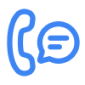
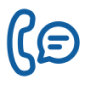
updated the primary color

Changed region(s): [[0.0706, 0.0941, 0.9412, 0.8941], [0.5647, 0.4, 0.8235, 0.4941], [0.5647, 0.5176, 0.7294, 0.5882]]

diff --git a/components/home/MiddleMenu.js b/components/home/MiddleMenu.js
@@ -8,7 +8,7 @@ export default function MiddleMenu() {
     <MiddleWrapper>
       <Link href={paths.leadership}>
         <a>
-          <Image src='/img/leadership-icon.webp' width={50} height={50} />
+          <Image src='/img/leadership-icon.png' width={50} height={50} />
           <p>
             With a warm smile, the leaders of Rhema Christian Ministries are
             taskes with operational and ecclesiatial exellence.
@@ -18,7 +18,7 @@ export default function MiddleMenu() {
       </Link>
       <Link href={paths.beliefs}>
         <a>
-          <Image src='/img/beliefs-icon.webp' width={50} height={50} />
+          <Image src='/img/beliefs-icon.png' width={50} height={50} />
           <p>
             At Rhema what we believe is important to us but not as much as the
             one in whom we believe.
@@ -28,14 +28,14 @@ export default function MiddleMenu() {
       </Link>
       <Link href={paths.ministries}>
         <a>
-          <Image src='/img/ministries-icon.webp' width={57.5} height={50} />
+          <Image src='/img/ministries-icon.png' width={57.5} height={50} />
           <p>From our family to yours.</p>
           <h4>Ministries</h4>
         </a>
       </Link>
       <Link href={paths.grow}>
         <a>
-          <Image src='/img/grow-icon.webp' width={50} height={50} />
+          <Image src='/img/grow-icon.png' width={50} height={50} />
           <p>
             We invite you to hear the voice of the Master calling you, even as
             “Deep calleth unto deep” (Psalm 42:7)

diff --git a/styles/_variables.css b/styles/_variables.css
@@ -2,8 +2,8 @@
 
 :root {
   --white: rgb(255, 255, 255);
-  --blue: rgb(61, 133, 242);
-  --lightBlue: rgb(87, 149, 241);
+  --blue: rgb(16, 97, 162);
+  --lightBlue: rgb(62, 133, 190);
   --mint: rgb(181, 217, 238);
   --orange: rgb(255, 97, 97);
   --textColor: rgb(90, 90, 90);

diff --git a/components/common/Modals/HomeModal.js b/components/common/Modals/HomeModal.js
@@ -257,8 +257,7 @@ export const ModalContainer = styled.div`
     }
   }
   @media screen and (max-width: 640px) {
-    .modal-header,
-    .modal-body {
+    .modal-header {
       padding: 1.5rem;
     }
     h3 {
